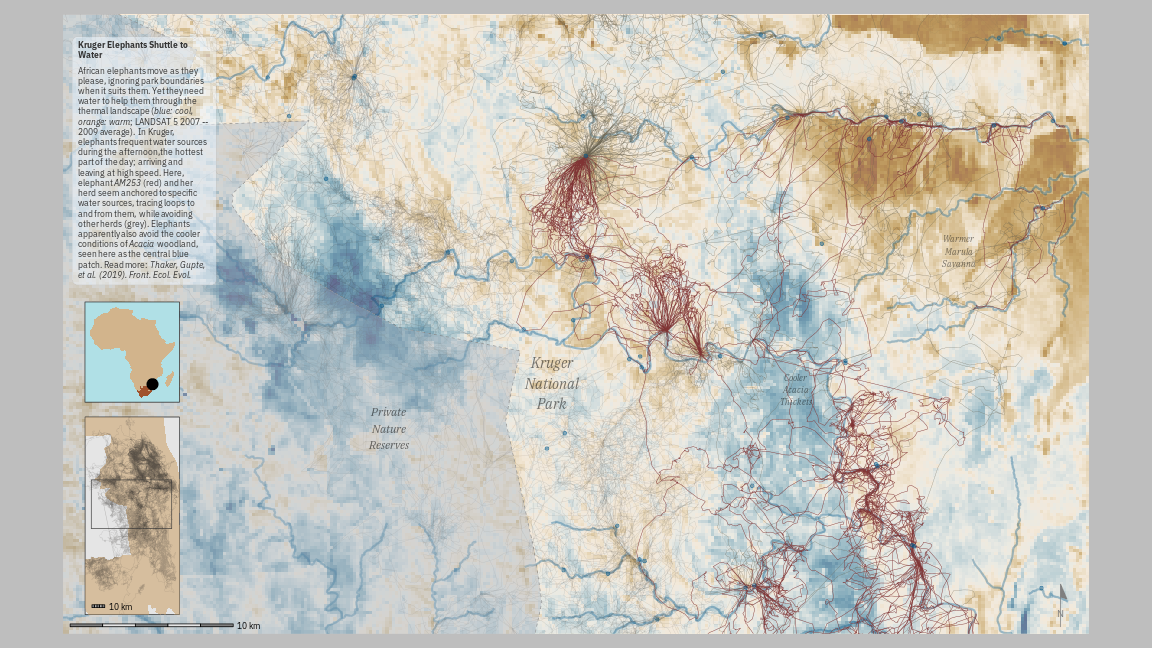
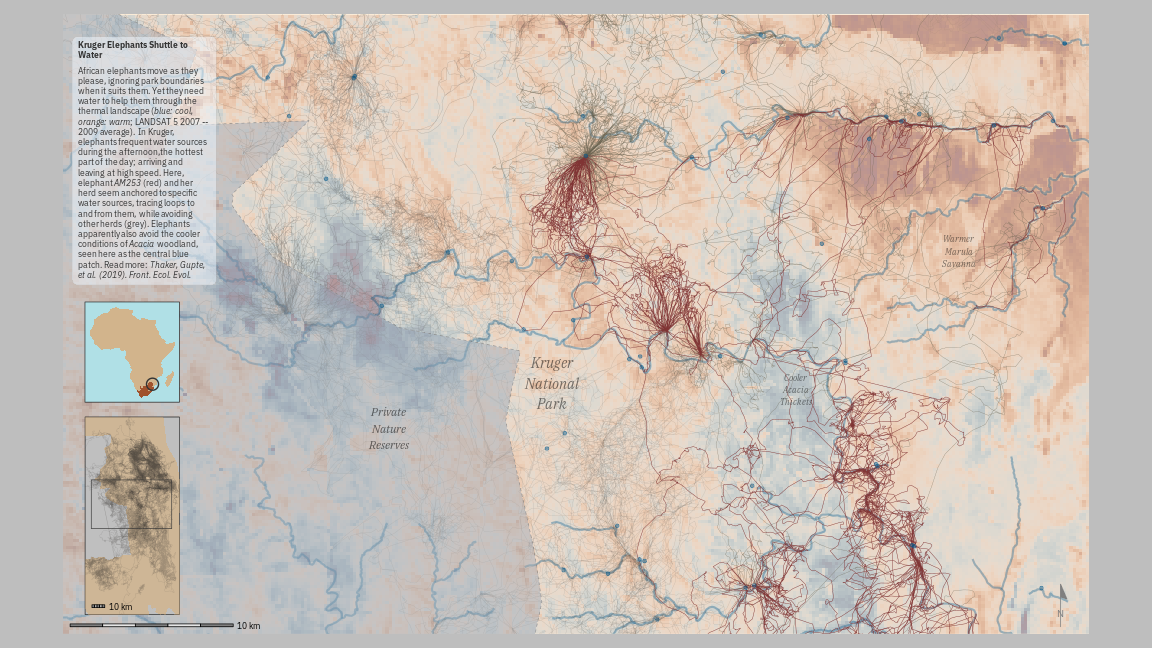
better code

diff --git a/docs/mapping-elephant-movement.html b/docs/mapping-elephant-movement.html
@@ -160,7 +160,8 @@ code span.wa { color: #60a0b0; font-weight: bold; font-style: italic; } /* Warni
 <li class="chapter" data-level="4.5.4" data-path="mapping-elephant-movement.html"><a href="mapping-elephant-movement.html#add-insets"><i class="fa fa-check"></i><b>4.5.4</b> Add insets</a></li>
 <li class="chapter" data-level="4.5.5" data-path="mapping-elephant-movement.html"><a href="mapping-elephant-movement.html#add-text-box"><i class="fa fa-check"></i><b>4.5.5</b> Add text box</a></li>
 <li class="chapter" data-level="4.5.6" data-path="mapping-elephant-movement.html"><a href="mapping-elephant-movement.html#add-some-labels"><i class="fa fa-check"></i><b>4.5.6</b> Add some labels</a></li>
-<li class="chapter" data-level="4.5.7" data-path="mapping-elephant-movement.html"><a href="mapping-elephant-movement.html#save-figure"><i class="fa fa-check"></i><b>4.5.7</b> Save figure</a></li>
+<li class="chapter" data-level="4.5.7" data-path="mapping-elephant-movement.html"><a href="mapping-elephant-movement.html#make-options"><i class="fa fa-check"></i><b>4.5.7</b> Make options</a></li>
+<li class="chapter" data-level="4.5.8" data-path="mapping-elephant-movement.html"><a href="mapping-elephant-movement.html#save-figure"><i class="fa fa-check"></i><b>4.5.8</b> Save figure</a></li>
 </ul></li>
 </ul></li>
 </ul>
@@ -289,22 +290,26 @@ code span.wa { color: #60a0b0; font-weight: bold; font-style: italic; } /* Warni
 <a class="sourceLine" id="cb19-13" title="13">  ) <span class="op">+</span></a>
 <a class="sourceLine" id="cb19-14" title="14"><span class="st">  </span><span class="kw">geom_sf</span>(</a>
 <a class="sourceLine" id="cb19-15" title="15">    <span class="dt">data =</span> kruger_point,</a>
-<a class="sourceLine" id="cb19-16" title="16">    <span class="dt">size =</span> <span class="dv">5</span></a>
-<a class="sourceLine" id="cb19-17" title="17">  ) <span class="op">+</span></a>
-<a class="sourceLine" id="cb19-18" title="18"><span class="st">  </span><span class="kw">scale_y_continuous</span>(</a>
-<a class="sourceLine" id="cb19-19" title="19">    <span class="dt">breaks =</span> <span class="kw">seq</span>(<span class="op">-</span><span class="dv">22</span>, <span class="dv">-34</span>, <span class="dv">-6</span>)</a>
-<a class="sourceLine" id="cb19-20" title="20">  ) <span class="op">+</span></a>
-<a class="sourceLine" id="cb19-21" title="21"><span class="st">  </span><span class="kw">theme_void</span>(<span class="dt">base_size =</span> <span class="dv">8</span>) <span class="op">+</span></a>
-<a class="sourceLine" id="cb19-22" title="22"><span class="st">  </span><span class="kw">theme</span>(</a>
-<a class="sourceLine" id="cb19-23" title="23">    <span class="dt">panel.background =</span> <span class="kw">element_rect</span>(</a>
-<a class="sourceLine" id="cb19-24" title="24">      <span class="dt">fill =</span> <span class="st">&quot;powderblue&quot;</span>,</a>
-<a class="sourceLine" id="cb19-25" title="25">      <span class="dt">colour =</span> <span class="st">&quot;grey20&quot;</span></a>
-<a class="sourceLine" id="cb19-26" title="26">    ),</a>
-<a class="sourceLine" id="cb19-27" title="27">    <span class="dt">plot.margin =</span> <span class="kw">unit</span>(<span class="kw">rep</span>(<span class="dv">2</span>, <span class="dv">4</span>), <span class="st">&quot;mm&quot;</span>)</a>
-<a class="sourceLine" id="cb19-28" title="28">  ) <span class="op">+</span></a>
-<a class="sourceLine" id="cb19-29" title="29"><span class="st">  </span><span class="kw">coord_sf</span>(</a>
-<a class="sourceLine" id="cb19-30" title="30">    <span class="dt">expand =</span> T</a>
-<a class="sourceLine" id="cb19-31" title="31">  )</a></code></pre></div>
+<a class="sourceLine" id="cb19-16" title="16">    <span class="dt">size =</span> <span class="dv">5</span>,</a>
+<a class="sourceLine" id="cb19-17" title="17">    <span class="dt">fill =</span> <span class="ot">NA</span>,</a>
+<a class="sourceLine" id="cb19-18" title="18">    <span class="dt">shape =</span> <span class="dv">21</span>,</a>
+<a class="sourceLine" id="cb19-19" title="19">    <span class="dt">colour =</span> <span class="st">&quot;grey20&quot;</span>,</a>
+<a class="sourceLine" id="cb19-20" title="20">    <span class="dt">stroke =</span> <span class="dv">1</span></a>
+<a class="sourceLine" id="cb19-21" title="21">  ) <span class="op">+</span></a>
+<a class="sourceLine" id="cb19-22" title="22"><span class="st">  </span><span class="kw">scale_y_continuous</span>(</a>
+<a class="sourceLine" id="cb19-23" title="23">    <span class="dt">breaks =</span> <span class="kw">seq</span>(<span class="op">-</span><span class="dv">22</span>, <span class="dv">-34</span>, <span class="dv">-6</span>)</a>
+<a class="sourceLine" id="cb19-24" title="24">  ) <span class="op">+</span></a>
+<a class="sourceLine" id="cb19-25" title="25"><span class="st">  </span><span class="kw">theme_void</span>(<span class="dt">base_size =</span> <span class="dv">8</span>) <span class="op">+</span></a>
+<a class="sourceLine" id="cb19-26" title="26"><span class="st">  </span><span class="kw">theme</span>(</a>
+<a class="sourceLine" id="cb19-27" title="27">    <span class="dt">panel.background =</span> <span class="kw">element_rect</span>(</a>
+<a class="sourceLine" id="cb19-28" title="28">      <span class="dt">fill =</span> <span class="st">&quot;powderblue&quot;</span>,</a>
+<a class="sourceLine" id="cb19-29" title="29">      <span class="dt">colour =</span> <span class="st">&quot;grey20&quot;</span></a>
+<a class="sourceLine" id="cb19-30" title="30">    ),</a>
+<a class="sourceLine" id="cb19-31" title="31">    <span class="dt">plot.margin =</span> <span class="kw">unit</span>(<span class="kw">rep</span>(<span class="dv">2</span>, <span class="dv">4</span>), <span class="st">&quot;mm&quot;</span>)</a>
+<a class="sourceLine" id="cb19-32" title="32">  ) <span class="op">+</span></a>
+<a class="sourceLine" id="cb19-33" title="33"><span class="st">  </span><span class="kw">coord_sf</span>(</a>
+<a class="sourceLine" id="cb19-34" title="34">    <span class="dt">expand =</span> T</a>
+<a class="sourceLine" id="cb19-35" title="35">  )</a></code></pre></div>
 </div>
 <div id="make-kruger-inset" class="section level2">
 <h2><span class="header-section-number">4.4</span> Make Kruger Inset</h2>
@@ -349,7 +354,7 @@ code span.wa { color: #60a0b0; font-weight: bold; font-style: italic; } /* Warni
 <a class="sourceLine" id="cb20-39" title="39">  ) <span class="op">+</span></a>
 <a class="sourceLine" id="cb20-40" title="40"><span class="st">  </span><span class="kw">theme</span>(</a>
 <a class="sourceLine" id="cb20-41" title="41">    <span class="dt">panel.background =</span> <span class="kw">element_rect</span>(</a>
-<a class="sourceLine" id="cb20-42" title="42">      <span class="dt">fill =</span> <span class="st">&quot;grey90&quot;</span></a>
+<a class="sourceLine" id="cb20-42" title="42">      <span class="dt">fill =</span> <span class="st">&quot;grey75&quot;</span></a>
 <a class="sourceLine" id="cb20-43" title="43">    ),</a>
 <a class="sourceLine" id="cb20-44" title="44">    <span class="dt">panel.border =</span> <span class="kw">element_rect</span>(</a>
 <a class="sourceLine" id="cb20-45" title="45">      <span class="dt">colour =</span> <span class="st">&quot;grey20&quot;</span>,</a>
@@ -400,7 +405,7 @@ code span.wa { color: #60a0b0; font-weight: bold; font-style: italic; } /* Warni
 <a class="sourceLine" id="cb22-10" title="10">    <span class="dt">data =</span> temp,</a>
 <a class="sourceLine" id="cb22-11" title="11">    <span class="kw">aes</span>(x, y, <span class="dt">fill =</span> temp),</a>
 <a class="sourceLine" id="cb22-12" title="12">    <span class="dt">show.legend =</span> F,</a>
-<a class="sourceLine" id="cb22-13" title="13">    <span class="dt">alpha =</span> <span class="fl">0.6</span></a>
+<a class="sourceLine" id="cb22-13" title="13">    <span class="dt">alpha =</span> <span class="fl">0.4</span></a>
 <a class="sourceLine" id="cb22-14" title="14">  ) <span class="op">+</span></a>
 <a class="sourceLine" id="cb22-15" title="15"><span class="st">  </span><span class="kw">geom_sf</span>(</a>
 <a class="sourceLine" id="cb22-16" title="16">    <span class="dt">data =</span> rivers[<span class="kw">is.na</span>(rivers<span class="op">$</span>seasonal), ],</a>
@@ -440,18 +445,11 @@ code span.wa { color: #60a0b0; font-weight: bold; font-style: italic; } /* Warni
 <a class="sourceLine" id="cb22-50" title="50">    <span class="dt">fill =</span> <span class="kw">alpha</span>(<span class="st">&quot;grey80&quot;</span>, <span class="fl">0.35</span>),</a>
 <a class="sourceLine" id="cb22-51" title="51">    <span class="dt">col =</span> <span class="ot">NA</span></a>
 <a class="sourceLine" id="cb22-52" title="52">  ) <span class="op">+</span></a>
-<a class="sourceLine" id="cb22-53" title="53"><span class="st">  </span><span class="kw">scale_fill_gradientn</span>(</a>
-<a class="sourceLine" id="cb22-54" title="54">    <span class="dt">colours =</span> <span class="kw">scico</span>(<span class="dv">20</span>,</a>
-<a class="sourceLine" id="cb22-55" title="55">      <span class="dt">palette =</span> <span class="st">&quot;vik&quot;</span>,</a>
-<a class="sourceLine" id="cb22-56" title="56">      <span class="dt">direction =</span> <span class="dv">1</span>,</a>
-<a class="sourceLine" id="cb22-57" title="57">      <span class="dt">begin =</span> <span class="fl">0.</span>, <span class="dt">end =</span> <span class="dv">1</span></a>
-<a class="sourceLine" id="cb22-58" title="58">    )</a>
-<a class="sourceLine" id="cb22-59" title="59">  ) <span class="op">+</span></a>
-<a class="sourceLine" id="cb22-60" title="60"><span class="st">  </span><span class="kw">coord_sf</span>(</a>
-<a class="sourceLine" id="cb22-61" title="61">    <span class="dt">xlim =</span> bbox[<span class="kw">c</span>(<span class="st">&quot;xmin&quot;</span>, <span class="st">&quot;xmax&quot;</span>)],</a>
-<a class="sourceLine" id="cb22-62" title="62">    <span class="dt">ylim =</span> bbox[<span class="kw">c</span>(<span class="st">&quot;ymin&quot;</span>, <span class="st">&quot;ymax&quot;</span>)],</a>
-<a class="sourceLine" id="cb22-63" title="63">    <span class="dt">expand =</span> <span class="ot">FALSE</span></a>
-<a class="sourceLine" id="cb22-64" title="64">  )</a></code></pre></div>
+<a class="sourceLine" id="cb22-53" title="53"><span class="st">  </span><span class="kw">coord_sf</span>(</a>
+<a class="sourceLine" id="cb22-54" title="54">    <span class="dt">xlim =</span> bbox[<span class="kw">c</span>(<span class="st">&quot;xmin&quot;</span>, <span class="st">&quot;xmax&quot;</span>)],</a>
+<a class="sourceLine" id="cb22-55" title="55">    <span class="dt">ylim =</span> bbox[<span class="kw">c</span>(<span class="st">&quot;ymin&quot;</span>, <span class="st">&quot;ymax&quot;</span>)],</a>
+<a class="sourceLine" id="cb22-56" title="56">    <span class="dt">expand =</span> <span class="ot">FALSE</span></a>
+<a class="sourceLine" id="cb22-57" title="57">  )</a></code></pre></div>
 </div>
 <div id="add-decoration" class="section level3">
 <h3><span class="header-section-number">4.5.3</span> Add decoration</h3>
@@ -474,10 +472,10 @@ code span.wa { color: #60a0b0; font-weight: bold; font-style: italic; } /* Warni
 <a class="sourceLine" id="cb23-17" title="17">  ) <span class="op">+</span></a>
 <a class="sourceLine" id="cb23-18" title="18"><span class="st">  </span><span class="kw">theme_void</span>() <span class="op">+</span></a>
 <a class="sourceLine" id="cb23-19" title="19"><span class="st">  </span><span class="kw">theme</span>(</a>
-<a class="sourceLine" id="cb23-20" title="20">    <span class="co"># panel.background = element_rect(</span></a>
-<a class="sourceLine" id="cb23-21" title="21">    <span class="co">#   colour = &quot;grey&quot;,</span></a>
-<a class="sourceLine" id="cb23-22" title="22">    <span class="co">#   fill = alpha(&quot;grey&quot;, 0.5)</span></a>
-<a class="sourceLine" id="cb23-23" title="23">    <span class="co"># ),</span></a>
+<a class="sourceLine" id="cb23-20" title="20">    <span class="dt">panel.background =</span> <span class="kw">element_rect</span>(</a>
+<a class="sourceLine" id="cb23-21" title="21">      <span class="dt">colour =</span> <span class="st">&quot;grey&quot;</span>,</a>
+<a class="sourceLine" id="cb23-22" title="22">      <span class="dt">fill =</span> <span class="kw">alpha</span>(<span class="st">&quot;grey&quot;</span>, <span class="fl">0.5</span>)</a>
+<a class="sourceLine" id="cb23-23" title="23">    ),</a>
 <a class="sourceLine" id="cb23-24" title="24">    <span class="dt">plot.margin =</span> <span class="kw">unit</span>(<span class="kw">rep</span>(<span class="dv">5</span>, <span class="dv">4</span>), <span class="st">&quot;mm&quot;</span>)</a>
 <a class="sourceLine" id="cb23-25" title="25">  )</a></code></pre></div>
 </div>
@@ -558,21 +556,46 @@ code span.wa { color: #60a0b0; font-weight: bold; font-style: italic; } /* Warni
 <a class="sourceLine" id="cb27-26" title="26">    <span class="dt">size =</span> <span class="kw">c</span>(<span class="dv">3</span>, <span class="dv">3</span>)</a>
 <a class="sourceLine" id="cb27-27" title="27">  )</a></code></pre></div>
 </div>
+<div id="make-options" class="section level3">
+<h3><span class="header-section-number">4.5.7</span> Make options</h3>
+<div class="sourceCode" id="cb28"><pre class="sourceCode r"><code class="sourceCode r"><a class="sourceLine" id="cb28-1" title="1"><span class="co"># op1 = fig_main +</span></a>
+<a class="sourceLine" id="cb28-2" title="2"><span class="co">#   scale_fill_gradientn(</span></a>
+<a class="sourceLine" id="cb28-3" title="3"><span class="co">#     colours = scico(20,</span></a>
+<a class="sourceLine" id="cb28-4" title="4"><span class="co">#       palette = &quot;romaO&quot;,</span></a>
+<a class="sourceLine" id="cb28-5" title="5"><span class="co">#       direction = -1,</span></a>
+<a class="sourceLine" id="cb28-6" title="6"><span class="co">#       begin = 0., end = 1</span></a>
+<a class="sourceLine" id="cb28-7" title="7"><span class="co">#     )</span></a>
+<a class="sourceLine" id="cb28-8" title="8"><span class="co">#   )</span></a>
+<a class="sourceLine" id="cb28-9" title="9"><span class="co">#</span></a>
+<a class="sourceLine" id="cb28-10" title="10"><span class="co"># op2 = fig_main +</span></a>
+<a class="sourceLine" id="cb28-11" title="11"><span class="co">#   scale_fill_distiller(</span></a>
+<a class="sourceLine" id="cb28-12" title="12"><span class="co">#     palette = &quot;RdYlBu&quot;</span></a>
+<a class="sourceLine" id="cb28-13" title="13"><span class="co">#   )</span></a>
+<a class="sourceLine" id="cb28-14" title="14"></a>
+<a class="sourceLine" id="cb28-15" title="15">fig_main &lt;-<span class="st"> </span>fig_main <span class="op">+</span></a>
+<a class="sourceLine" id="cb28-16" title="16"><span class="st">  </span><span class="kw">scale_fill_gradientn</span>(</a>
+<a class="sourceLine" id="cb28-17" title="17">    <span class="dt">colours =</span> <span class="kw">scico</span>(<span class="dv">20</span>,</a>
+<a class="sourceLine" id="cb28-18" title="18">      <span class="dt">palette =</span> <span class="st">&quot;vikO&quot;</span>,</a>
+<a class="sourceLine" id="cb28-19" title="19">      <span class="dt">direction =</span> <span class="dv">1</span>,</a>
+<a class="sourceLine" id="cb28-20" title="20">      <span class="dt">begin =</span> <span class="fl">0.</span>, <span class="dt">end =</span> <span class="dv">1</span></a>
+<a class="sourceLine" id="cb28-21" title="21">    )</a>
+<a class="sourceLine" id="cb28-22" title="22">  )</a></code></pre></div>
+</div>
 <div id="save-figure" class="section level3">
-<h3><span class="header-section-number">4.5.7</span> Save figure</h3>
-<div class="sourceCode" id="cb28"><pre class="sourceCode r"><code class="sourceCode r"><a class="sourceLine" id="cb28-1" title="1"><span class="co"># wide 16:9</span></a>
-<a class="sourceLine" id="cb28-2" title="2"><span class="kw">ggsave</span>(fig_main,</a>
-<a class="sourceLine" id="cb28-3" title="3">  <span class="dt">filename =</span> <span class="st">&quot;figures/fig_map_wide.png&quot;</span>,</a>
-<a class="sourceLine" id="cb28-4" title="4">  <span class="dt">height =</span> <span class="dv">9</span>, <span class="dt">width =</span> <span class="dv">16</span>,</a>
-<a class="sourceLine" id="cb28-5" title="5">  <span class="dt">bg =</span> <span class="st">&quot;grey&quot;</span></a>
-<a class="sourceLine" id="cb28-6" title="6">)</a>
-<a class="sourceLine" id="cb28-7" title="7"><span class="co"># a low res version</span></a>
-<a class="sourceLine" id="cb28-8" title="8"><span class="kw">ggsave</span>(fig_main,</a>
-<a class="sourceLine" id="cb28-9" title="9">  <span class="dt">filename =</span> <span class="st">&quot;figures/fig_map_wide_low_res.png&quot;</span>,</a>
-<a class="sourceLine" id="cb28-10" title="10">  <span class="dt">height =</span> <span class="dv">9</span>, <span class="dt">width =</span> <span class="dv">16</span>,</a>
-<a class="sourceLine" id="cb28-11" title="11">  <span class="dt">bg =</span> <span class="st">&quot;grey&quot;</span>,</a>
-<a class="sourceLine" id="cb28-12" title="12">  <span class="dt">dpi =</span> <span class="dv">72</span></a>
-<a class="sourceLine" id="cb28-13" title="13">)</a></code></pre></div>
+<h3><span class="header-section-number">4.5.8</span> Save figure</h3>
+<div class="sourceCode" id="cb29"><pre class="sourceCode r"><code class="sourceCode r"><a class="sourceLine" id="cb29-1" title="1"><span class="co"># wide 16:9</span></a>
+<a class="sourceLine" id="cb29-2" title="2"><span class="kw">ggsave</span>(fig_main,</a>
+<a class="sourceLine" id="cb29-3" title="3">  <span class="dt">filename =</span> <span class="st">&quot;figures/fig_map_wide.png&quot;</span>,</a>
+<a class="sourceLine" id="cb29-4" title="4">  <span class="dt">height =</span> <span class="dv">9</span>, <span class="dt">width =</span> <span class="dv">16</span>,</a>
+<a class="sourceLine" id="cb29-5" title="5">  <span class="dt">bg =</span> <span class="st">&quot;grey&quot;</span></a>
+<a class="sourceLine" id="cb29-6" title="6">)</a>
+<a class="sourceLine" id="cb29-7" title="7"><span class="co"># a low res version</span></a>
+<a class="sourceLine" id="cb29-8" title="8"><span class="kw">ggsave</span>(fig_main,</a>
+<a class="sourceLine" id="cb29-9" title="9">  <span class="dt">filename =</span> <span class="st">&quot;figures/fig_map_wide_low_res.png&quot;</span>,</a>
+<a class="sourceLine" id="cb29-10" title="10">  <span class="dt">height =</span> <span class="dv">9</span>, <span class="dt">width =</span> <span class="dv">16</span>,</a>
+<a class="sourceLine" id="cb29-11" title="11">  <span class="dt">bg =</span> <span class="st">&quot;grey&quot;</span>,</a>
+<a class="sourceLine" id="cb29-12" title="12">  <span class="dt">dpi =</span> <span class="dv">72</span></a>
+<a class="sourceLine" id="cb29-13" title="13">)</a></code></pre></div>
 
 </div>
 </div>

diff --git a/docs/getting-background-data.html b/docs/getting-background-data.html
@@ -160,7 +160,8 @@ code span.wa { color: #60a0b0; font-weight: bold; font-style: italic; } /* Warni
 <li class="chapter" data-level="4.5.4" data-path="mapping-elephant-movement.html"><a href="mapping-elephant-movement.html#add-insets"><i class="fa fa-check"></i><b>4.5.4</b> Add insets</a></li>
 <li class="chapter" data-level="4.5.5" data-path="mapping-elephant-movement.html"><a href="mapping-elephant-movement.html#add-text-box"><i class="fa fa-check"></i><b>4.5.5</b> Add text box</a></li>
 <li class="chapter" data-level="4.5.6" data-path="mapping-elephant-movement.html"><a href="mapping-elephant-movement.html#add-some-labels"><i class="fa fa-check"></i><b>4.5.6</b> Add some labels</a></li>
-<li class="chapter" data-level="4.5.7" data-path="mapping-elephant-movement.html"><a href="mapping-elephant-movement.html#save-figure"><i class="fa fa-check"></i><b>4.5.7</b> Save figure</a></li>
+<li class="chapter" data-level="4.5.7" data-path="mapping-elephant-movement.html"><a href="mapping-elephant-movement.html#make-options"><i class="fa fa-check"></i><b>4.5.7</b> Make options</a></li>
+<li class="chapter" data-level="4.5.8" data-path="mapping-elephant-movement.html"><a href="mapping-elephant-movement.html#save-figure"><i class="fa fa-check"></i><b>4.5.8</b> Save figure</a></li>
 </ul></li>
 </ul></li>
 </ul>

diff --git a/docs/getting-elephant-data.html b/docs/getting-elephant-data.html
@@ -160,7 +160,8 @@ code span.wa { color: #60a0b0; font-weight: bold; font-style: italic; } /* Warni
 <li class="chapter" data-level="4.5.4" data-path="mapping-elephant-movement.html"><a href="mapping-elephant-movement.html#add-insets"><i class="fa fa-check"></i><b>4.5.4</b> Add insets</a></li>
 <li class="chapter" data-level="4.5.5" data-path="mapping-elephant-movement.html"><a href="mapping-elephant-movement.html#add-text-box"><i class="fa fa-check"></i><b>4.5.5</b> Add text box</a></li>
 <li class="chapter" data-level="4.5.6" data-path="mapping-elephant-movement.html"><a href="mapping-elephant-movement.html#add-some-labels"><i class="fa fa-check"></i><b>4.5.6</b> Add some labels</a></li>
-<li class="chapter" data-level="4.5.7" data-path="mapping-elephant-movement.html"><a href="mapping-elephant-movement.html#save-figure"><i class="fa fa-check"></i><b>4.5.7</b> Save figure</a></li>
+<li class="chapter" data-level="4.5.7" data-path="mapping-elephant-movement.html"><a href="mapping-elephant-movement.html#make-options"><i class="fa fa-check"></i><b>4.5.7</b> Make options</a></li>
+<li class="chapter" data-level="4.5.8" data-path="mapping-elephant-movement.html"><a href="mapping-elephant-movement.html#save-figure"><i class="fa fa-check"></i><b>4.5.8</b> Save figure</a></li>
 </ul></li>
 </ul></li>
 </ul>

diff --git a/docs/index.html b/docs/index.html
@@ -160,7 +160,8 @@ code span.wa { color: #60a0b0; font-weight: bold; font-style: italic; } /* Warni
 <li class="chapter" data-level="4.5.4" data-path="mapping-elephant-movement.html"><a href="mapping-elephant-movement.html#add-insets"><i class="fa fa-check"></i><b>4.5.4</b> Add insets</a></li>
 <li class="chapter" data-level="4.5.5" data-path="mapping-elephant-movement.html"><a href="mapping-elephant-movement.html#add-text-box"><i class="fa fa-check"></i><b>4.5.5</b> Add text box</a></li>
 <li class="chapter" data-level="4.5.6" data-path="mapping-elephant-movement.html"><a href="mapping-elephant-movement.html#add-some-labels"><i class="fa fa-check"></i><b>4.5.6</b> Add some labels</a></li>
-<li class="chapter" data-level="4.5.7" data-path="mapping-elephant-movement.html"><a href="mapping-elephant-movement.html#save-figure"><i class="fa fa-check"></i><b>4.5.7</b> Save figure</a></li>
+<li class="chapter" data-level="4.5.7" data-path="mapping-elephant-movement.html"><a href="mapping-elephant-movement.html#make-options"><i class="fa fa-check"></i><b>4.5.7</b> Make options</a></li>
+<li class="chapter" data-level="4.5.8" data-path="mapping-elephant-movement.html"><a href="mapping-elephant-movement.html#save-figure"><i class="fa fa-check"></i><b>4.5.8</b> Save figure</a></li>
 </ul></li>
 </ul></li>
 </ul>
